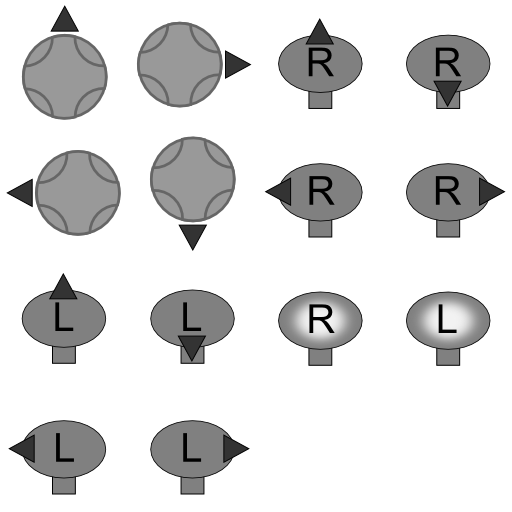
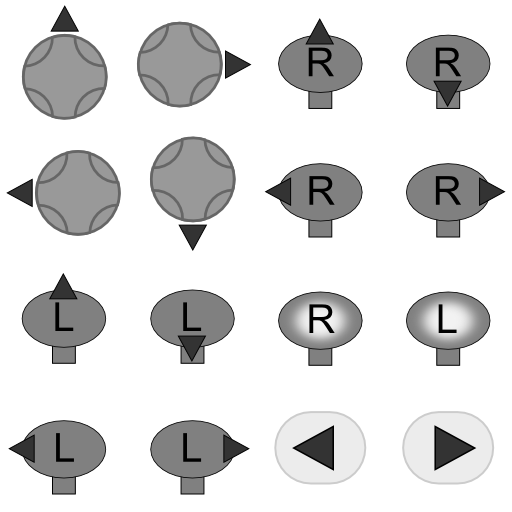
Start and Back button assets and button rest to default when slime reused

diff --git a/Assets/Scripts/GooInput.cs b/Assets/Scripts/GooInput.cs
@@ -70,6 +70,7 @@ public class GooInput : MonoBehaviour
 		}
 		isAxis = false;
 		selectedInput = "";
+		uiImage.overrideSprite = null;
 	}
 	
 	// Update is called once per frame
@@ -84,7 +85,7 @@ public class GooInput : MonoBehaviour
 			foreach (string buttonName in buttonAvailable.Keys) {
 				if (buttonAvailable [buttonName] && Input.GetButtonDown (buttonName)) {
 					selectedInput = buttonName;
-                    uiImage.sprite = buttonSprites[spriteLookup[buttonName]];
+                    uiImage.overrideSprite = buttonSprites[spriteLookup[buttonName]];
 					isAxis = false;
 					buttonAvailable [buttonName] = false;
 					return;
@@ -101,7 +102,7 @@ public class GooInput : MonoBehaviour
 						selectedInput = axisDirName;
 						isAxis = true;
 						axisAvailable [axisDirName] = false;
-                        uiImage.sprite = buttonSprites[spriteLookup[axisDirName]];
+                        uiImage.overrideSprite = buttonSprites[spriteLookup[axisDirName]];
 						return;
 					}
 					else {
